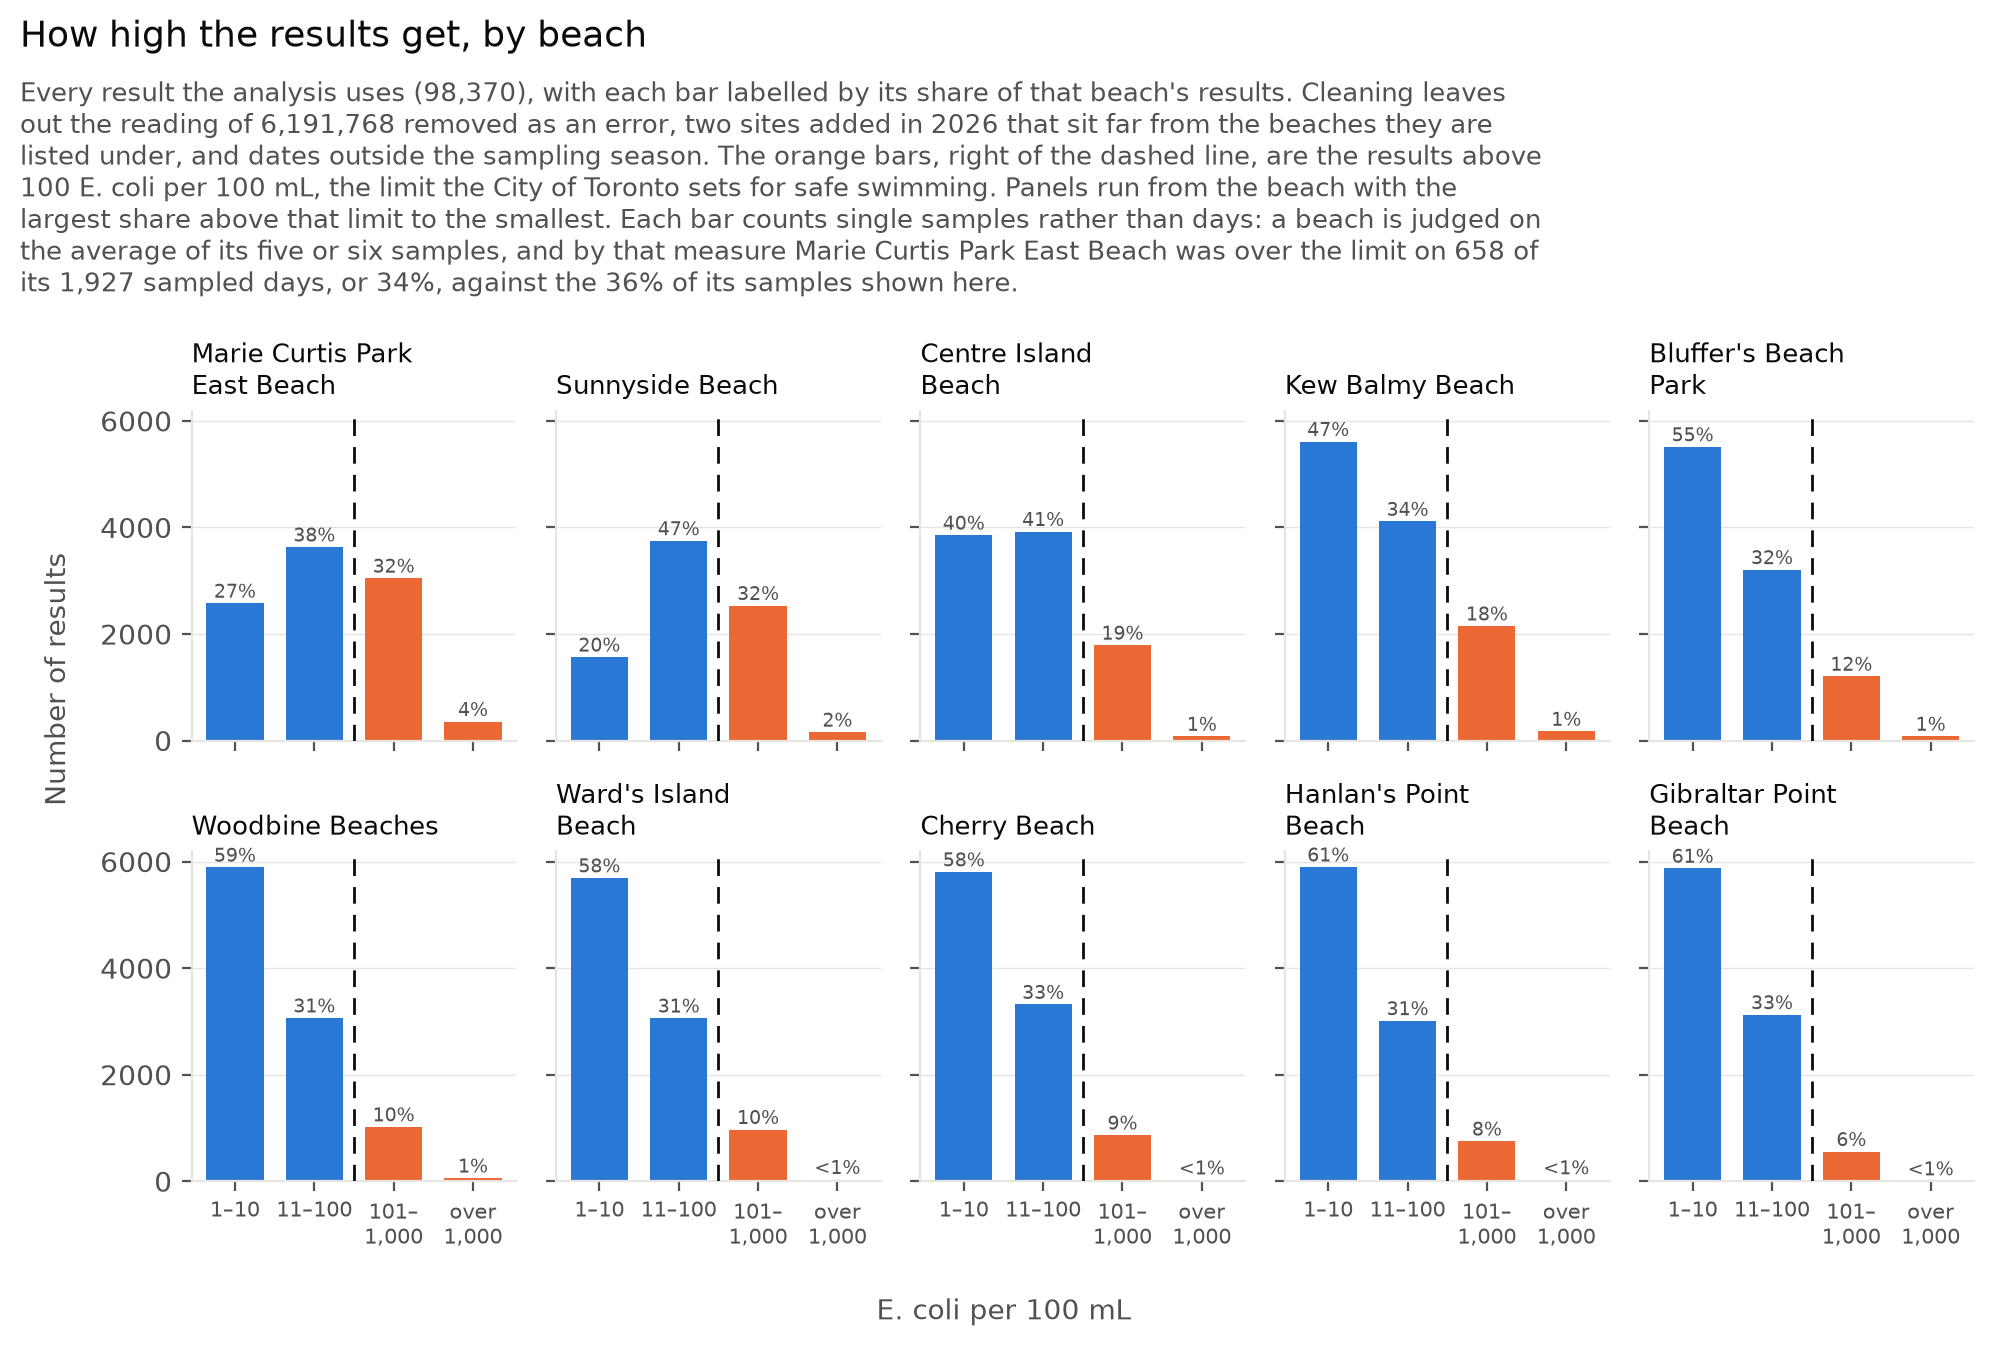
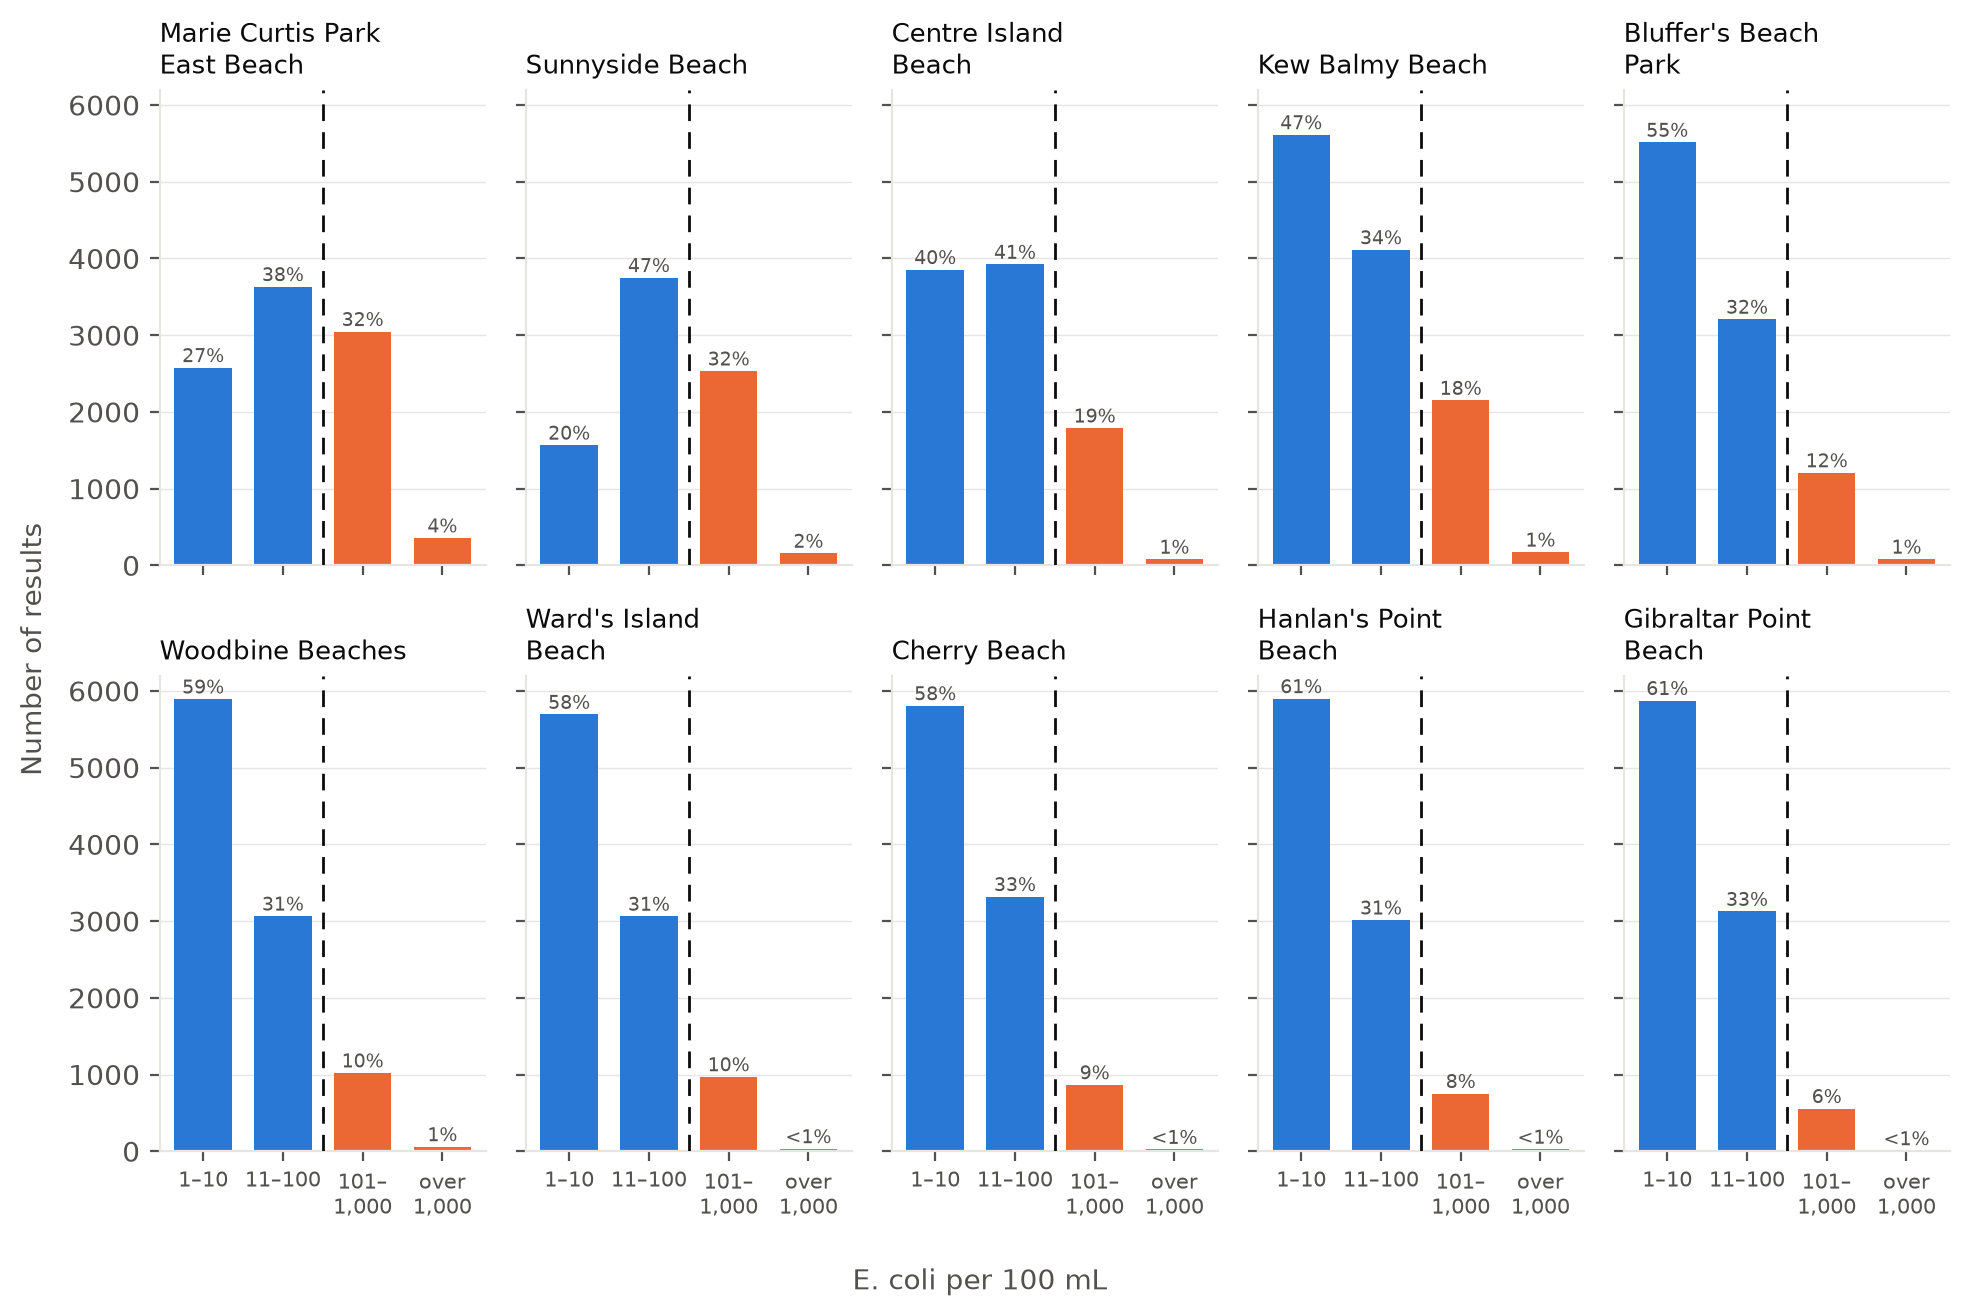
Move figure titles and captions from the images into the paper

diff --git a/scripts/05-exploratory_data_analysis.py b/scripts/05-exploratory_data_analysis.py
@@ -3,7 +3,8 @@
 # sampling sites; every published result over time, including the one that
 # cleaning removes; how high the results get at each beach; and every beach-day,
 # which is the unit the analysis uses. The figures are saved to `paper/figures/`
-# and the paper reads the saved images.
+# and the paper reads the saved images. Titles and captions are in the paper, not
+# the images; the numbers the captions quote are printed at the end.
 # Author: Sean Murphy
 # Date: 23 September 2026
 # Contact: seandata8@gmail.com
@@ -42,9 +43,6 @@ MINIMUM_RESULTS = 4
 # grid and pile up. Spreading them sideways by a few days makes the pile-ups
 # countable; the y position, which carries the measurement, is never moved.
 RAW_JITTER_DAYS = 60
-
-# Characters per caption line, set so that a caption fits the figure width.
-CAPTION_WIDTH = 118
 
 rng = np.random.default_rng(853)
 
@@ -303,36 +301,7 @@ axis.grid(axis="y", color=GRID_COLOUR, linewidth=0.5)
 axis.set_axisbelow(True)
 axis.set_ylabel("E. coli per 100 mL (log scale)", fontsize=10, color=TEXT_SECONDARY)
 
-figure.text(
-    0.008,
-    1.0,
-    "Every result the City has published, 2007 to 2026",
-    ha="left",
-    va="top",
-    fontsize=13,
-    color=TEXT_PRIMARY,
-)
-figure.text(
-    0.008,
-    0.955,
-    fill(
-        f"One point is one water sample ({raw_results.height:,} in total), before any cleaning."
-        " Points are spread sideways within each year so that they can be better visualized;"
-        " the E. coli count itself is never moved. The majority of the results are reported in"
-        " multiples of 10, which is why the low readings fall into separate rows. The laboratory"
-        " reports no results as zero and it was assumed that 'no colonies detected' is reported"
-        " at 10. From 2018 onward, many values are reported as 1,000 and these were assumed to be"
-        " measurements that were >=1000. The dashed line marks 100 per 100 mL, the level at which"
-        " the City posts a swimming warning. The ringed point is the only reading the analysis"
-        " removes.",
-        width=CAPTION_WIDTH,
-    ),
-    ha="left",
-    va="top",
-    fontsize=9.5,
-    color=TEXT_SECONDARY,
-)
-figure.tight_layout(rect=(0, 0, 1, 0.74))
+figure.tight_layout()
 figure.savefig(FIGURE_DIR / "all-raw-results.png", bbox_inches="tight")
 
 
@@ -415,39 +384,9 @@ for axis, beach in zip(axes.flat, summary_order):
     # The threshold falls on the edge between the second and third band.
     axis.axvline(1.5, color=TEXT_PRIMARY, linewidth=1, linestyle=(0, (6, 4)), zorder=3)
 
-figure.text(
-    0.008,
-    1.0,
-    "How high the results get, by beach",
-    ha="left",
-    va="top",
-    fontsize=13,
-    color=TEXT_PRIMARY,
-)
-figure.text(
-    0.008,
-    0.955,
-    fill(
-        f"Every result the analysis uses ({summary_results.height:,}), with each bar labelled by"
-        " its share of that beach's results. Cleaning leaves out the reading of 6,191,768 removed"
-        " as an error, two sites added in 2026 that sit far from the beaches they are listed"
-        " under, and dates outside the sampling season."
-        " The orange bars, right of the dashed line, are the results above 100"
-        " E. coli per 100 mL, the limit the City of Toronto sets for safe swimming. Panels run"
-        " from the beach with the largest share above that limit to the smallest. Each bar counts"
-        " single samples rather than days: a beach is judged on the average of its five or six"
-        " samples, and by that measure Marie Curtis Park East Beach was over the limit on 658 of"
-        " its 1,927 sampled days, or 34%, against the 36% of its samples shown here.",
-        width=CAPTION_WIDTH,
-    ),
-    ha="left",
-    va="top",
-    fontsize=9.5,
-    color=TEXT_SECONDARY,
-)
 figure.supylabel("Number of results", fontsize=10, color=TEXT_SECONDARY)
 figure.supxlabel("E. coli per 100 mL", fontsize=10, color=TEXT_SECONDARY)
-figure.tight_layout(rect=(0.004, 0, 1, 0.78))
+figure.tight_layout()
 figure.savefig(FIGURE_DIR / "results-by-magnitude.png", bbox_inches="tight")
 
 
@@ -527,8 +466,8 @@ axis.tick_params(axis="x", which="minor", labelsize=7.5)
 
 # The 17 days whose geometric mean falls below the reporting floor stretch the
 # axis down to about 2 and squeeze everything else into the right two thirds. The
-# axis starts just under the floor instead, and the caption says how many days
-# that leaves out.
+# axis starts just under the floor instead, and the caption in the paper says
+# how many days that leaves out.
 below_floor = daily_means.filter(
     pl.col("logGeometricMean") < np.log10(DETECTION_LIMIT)
 ).height
@@ -549,41 +488,13 @@ axis.text(
     color=TEXT_SECONDARY,
 )
 
-figure.text(
-    0.008,
-    1.0,
-    "Every beach-day, by beach",
-    ha="left",
-    va="top",
-    fontsize=13,
-    color=TEXT_PRIMARY,
-)
-figure.text(
-    0.008,
-    0.955,
-    fill(
-        "One point is the geometric mean of a beach's samples on one day, the figure the City's"
-        f" limit applies to ({daily_means.height:,} days in total). Days with fewer than four"
-        " results are left out. Points are spread vertically so that they can be counted; the"
-        " value itself is never moved. Orange points, right of the dashed line, are the days"
-        " above 100 E. coli per 100 mL. Half of all samples are reported at 10, the lowest the"
-        " laboratory measures, so the column at 10 is the days on which every sample was at that"
-        " floor, and the stripes just above it are the values a geometric mean of four to six"
-        f" multiples of ten can take. The {below_floor} days whose mean falls below 10 are off"
-        " the left of the axis.",
-        width=CAPTION_WIDTH,
-    ),
-    ha="left",
-    va="top",
-    fontsize=9.5,
-    color=TEXT_SECONDARY,
-)
 axis.set_xlabel("E. coli per 100 mL (log scale)", fontsize=10, color=TEXT_SECONDARY)
-figure.tight_layout(rect=(0, 0, 1, 0.84))
+figure.tight_layout()
 figure.savefig(FIGURE_DIR / "all-beach-days.png", bbox_inches="tight")
 
 print(f"Saved four figures to {FIGURE_DIR}")
 print(f"Sampling sites mapped: {sites.height}")
-print(f"Raw results plotted: {rest.height:,}")
+print(f"Raw results plotted: {raw_results.height:,}")
 print(f"Cleaned results plotted: {summary_results.height:,}")
 print(f"Beach-days plotted: {daily_means.height:,}")
+print(f"Beach-days with a mean below {DETECTION_LIMIT}, off the axis: {below_floor}")
